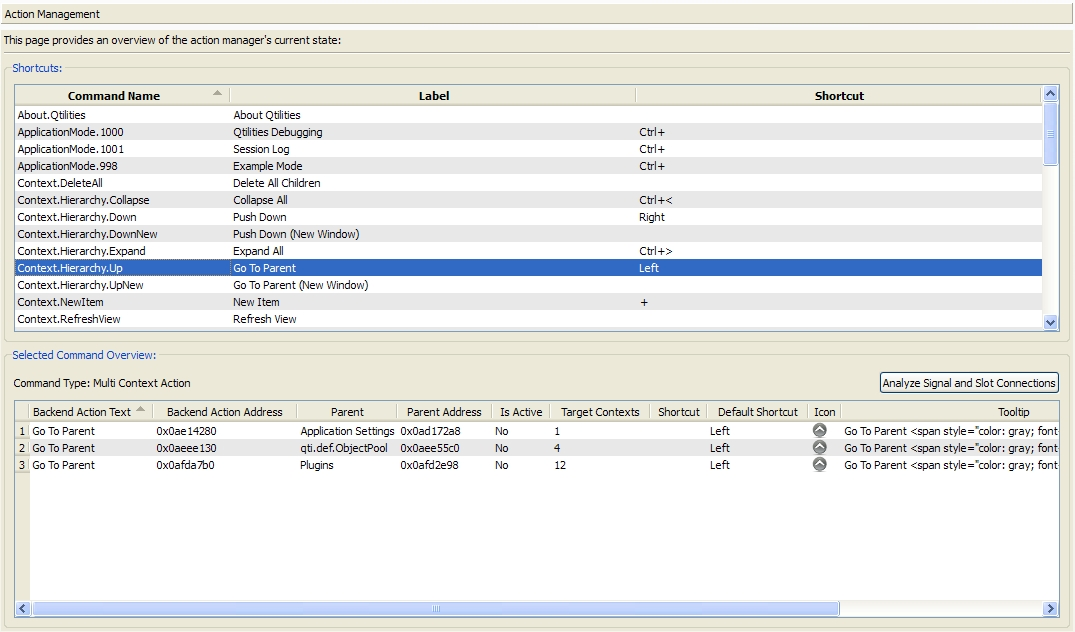
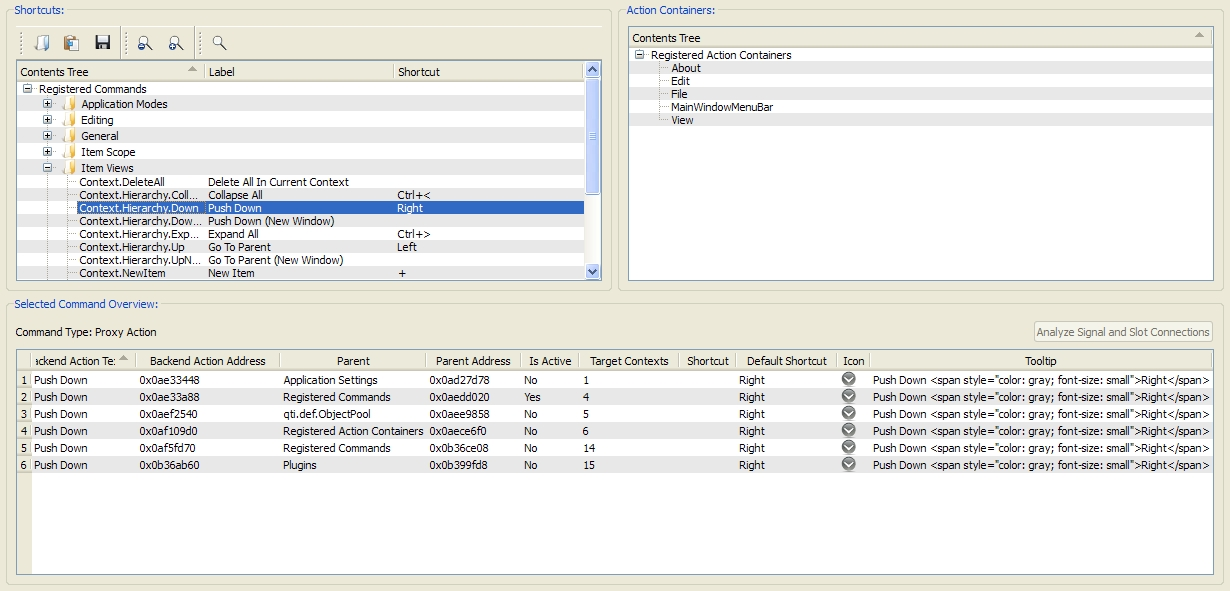
More updates to the action management article. It should be ready for the v0.3 release now.

Changed region(s): [[0.0, 0.0, 1.0, 1.0], [0.5833, 0.3046, 0.6447, 0.3655]]

diff --git a/doc/sources/Action_Management.html b/doc/sources/Action_Management.html
@@ -11,16 +11,26 @@
 <td style="width:80%; padding:0px 5px 0px 0px; vertical-align: text-top; text-align: left">
 <h1 style="margin:0px; padding:0px">Overview</h1>
 
-%Qtilities provides classes to allow management of actions and shortcuts in a Qt application. In small applications it is easy to do action management manually but as applications get bigger, its useful an it saves time to use a proper action management system. The action manager allows actions and shortcuts to be linked with contexts and to change their behavior depending on the active contexts. An command editor widget is provided to allow users to change their application wide shortcut settings, or to export or import previous sessions. Lastly, a clipboard manager is provided allowing management of the application clipboard.
+%Qtilities provides classes to allow management of actions and shortcuts in a Qt application. In small applications it is easy to do action management manually but as applications get bigger, its useful an it saves time to use a proper action management system. The action manager allows actions and shortcuts to be linked with contexts and to change their behavior depending on the active contexts. An command editor widget is provided to allow users to change their application wide shortcut settings, or to export and import previous sessions.
+
+The action provider concept is introduced where objects can provide actions to other objects or views and lastly, a clipboard manager is provided allowing management of the application clipboard.
 
 This article will explore these features and show how to include the functionality in your application.
 
 Table of contents:
 - \ref context_manager
 - \ref action_manager
-	- \ref menus_and_menubars
-	- \ref actions_and_shortcuts
-	.
+    - \ref menus_and_menubars
+    - \ref actions_and_shortcuts
+        - \ref actions_and_shortcuts_registering_actions
+        - \ref actions_and_shortcuts_proxy_actions
+        - \ref actions_and_shortcuts_action_place_holders
+        - \ref actions_and_shortcuts_defined_actions
+        - \ref actions_and_shortcuts_configurations
+        - \ref actions_and_shortcuts_debugging
+        .
+    .
+- \ref action_providers
 - \ref clipboard_manager
 
 </td>
@@ -103,7 +113,7 @@ The %Qtilities Debug Plugin provides an overview of the context manager's state 
 
 \image html debugging_state_contexts.jpg "Context Manager Overview"
 
-For more information see the Qtilities::CoreGui::Interfaces::IContextManager documentation.
+For more information see the Qtilities::Core::Interfaces::IContextManager documentation.
 
 \section action_manager The Action Manager 
 
@@ -141,9 +151,11 @@ menu_bar->addMenu(about_menu);
 
 Managed menus and menu bars implements the Qtilities::CoreGui::ActionContainer base class and access functions for these items will return an action container reference. Menus can be accessed using the Qtilities::CoreGui::ActionContainer::menu() function and menu bars through the Qtilities::CoreGui::ActionContainer::menuBar() function. For menus the menu bar function will return 0, and for menu bars the menu function will return 0.
 
-\subsection actions_and_shortcuts Actions and shortcuts
+\subsection actions_and_shortcuts Actions and Shortcuts
 
 Actions and shortcuts are created in the normal way and then registered in the action manager. To start of, lets consider a simple action which must be enabled if a specific context (called "My Context" in this example) is active, and disabled otherwise.
+
+\subsubsection actions_and_shortcuts_registering_actions Registering Actions and Shortcuts
 
 \code
 // Create a standard action:
@@ -156,19 +168,18 @@ QList<int> contexts;
 contexts.push_front(CONTEXT_MANAGER->contextID("My Context"));
 
 // Register the action in the action manager:
-command = ACTION_MANAGER->registerAction("MyActions.CollapseAll",actionCollapseAll,contexts);
-command->setCategory(QtilitiesCategory("My Action Category"));
+ACTION_MANAGER->registerAction("MyActions.CollapseAll",actionCollapseAll,contexts);
 \endcode
 
 All actions have a Command ID and an appropriate user visible string called an "User Text ID" associated with them. In the above example the Command ID is defined by \p MyActions.CollapseAll and the User Text ID is defined by the text() function on \p actionCollapseAll, thus "Collapse All". Actions and shortcuts implement the Qtilities::CoreGui::Command base class and will be called commands in the rest of this article. Actions can be accessed using the Qtilities::CoreGui::Command::action() function and shortcuts through the Qtilities::CoreGui::Command::shortcut() function. For shortcuts the action function will return 0, and for actions the shortcut function will return 0. Shortcuts are registered in the same way as actions as shown in the above example.
 
 As mentioned already, actions and shortcuts are linked to contexts, thus they react differently when different contexts are active. This allows customization in two ways:
 - A single action can be enabled or disabled depending on the context manager's active contexts. This approach was shown in the above example.
-- A specialized proxy action can be used which triggers one of several backend-actions depending on the context manager's active contexts.
+- A specialized proxy action can be used which triggers one of several back-end actions depending on the context manager's active contexts. In fact, all actions registered in the action manager are proxy actions. The first point above just uses a proxy action with a single back-end action.
 
-Lets look at the specialized proxy action approach in more detail.
+Lets look at the proxy action approach in more detail.
 
-\subsubsection actions_and_shortcuts_proxy_action Proxy Actions
+\subsubsection actions_and_shortcuts_proxy_actions Proxy Actions
 
 The Qtilities::CoreGui::ProxyAction class represents an proxy action which is triggered when the command's shortcut is triggered, and any number of back-end actions which each represent a different context. When context changes happen in the application, the proxy action will be updated to route shortcut triggers to the correct back-end action.
 
@@ -177,10 +188,10 @@ Proxy actions are easily created, for example:
 \code
 // Create a standard action:
 QAction* proxyAction = new QAction(tr("Proxy Action"),this);
-QAction* backendAction1 = new QAction(tr("Backend 1"),this);
-QAction* backendAction2 = new QAction(tr("Backend 2"),this);
+QAction* backendAction1 = new QAction(tr("Back-end 1"),this);
+QAction* backendAction2 = new QAction(tr("Back-end 2"),this);
 
-// Get the contexts for the backend actions ready:
+// Get the contexts for the back-end actions ready:
 QList<int> contextAction1;
 contextAction1.push_front(CONTEXT_MANAGER->contextID("Context 1"));
 QList<int> contextAction2;
@@ -189,12 +200,14 @@ contextAction2.push_front(CONTEXT_MANAGER->contextID("Context 2"));
 // Register the proxy action. Note that we do not assign a context for the proxy action:
 ACTION_MANAGER->registerAction("MyActions.MyProxyAction",proxyAction);
 
-// Now register the backend actions:
+// Now register the back-end actions:
 ACTION_MANAGER->registerAction("MyActions.MyProxyAction",backendAction1,contextAction1);
 ACTION_MANAGER->registerAction("MyActions.MyProxyAction",backendAction2,contextAction2);
 \endcode
 
 In the above example \p backedAction1 will trigger when "Context 1" is active, and \p backendAction2 will trigger when "Context 2" is active. Note that no back-end actions will be triggered if neither of these contexts are active.
+
+The first example presented where we regster a single action with a context (called "Collapse All" in that example), will create a proxy action and register the given action as a back-end action in it. Thus we can add more back-end actions for the "Collapse All" action by registering more actions for the same Command ID.
 
 \subsubsection actions_and_shortcuts_action_place_holders Action Placeholders
 
@@ -203,19 +216,19 @@ In some scenarions, especially pluginable applications, it is desirable to add a
 Place holders are easily registered like this:
 
 \code
-ACTION_MANAGER->registerActionPlaceHolder("MyActions.PlaceHolder","Example Placeholder",QKeySequence());
+ACTION_MANAGER->registerActionPlaceHolder("MyActions.PlaceHolder","Example Placeholder");
 
 // Plugins can now add back-end actions to the above proxy action like this:
-QAction* backendAction1 = new QAction(tr("Backend 1"),this);
-QAction* backendAction2 = new QAction(tr("Backend 2"),this);
+QAction* backendAction1 = new QAction(tr("Back-end 1"),this);
+QAction* backendAction2 = new QAction(tr("Back-end 2"),this);
 
-// Get the contexts for the backend actions ready:
+// Get the contexts for the back-end actions ready:
 QList<int> contextAction1;
 contextAction1.push_front(CONTEXT_MANAGER->contextID("Context 1"));
 QList<int> contextAction2;
 contextAction2.push_front(CONTEXT_MANAGER->contextID("Context 2"));
 
-// Now register the backend actions:
+// Now register the back-end actions:
 ACTION_MANAGER->registerAction("MyActions.PlaceHolder",backendAction1,contextAction1);
 ACTION_MANAGER->registerAction("MyActions.PlaceHolder",backendAction2,contextAction2);
 \endcode
@@ -223,15 +236,20 @@ ACTION_MANAGER->registerAction("MyActions.PlaceHolder",backendAction2,contextAct
 It is also possible to create an action place holder which is not a proxy action. This is very usefull in cases where you don't want to store a reference to an action yourself. For example if you want to add an \p Exit action to your \p File menu, you can do it directly in your \p main() function. The trick here is to specify a context for your place holder so that it will be enabled for that context:
 
 \code
-command = ACTION_MANAGER->registerActionPlaceHolder("MyActions.Exit","Exit",QKeySequence(QKeySequence::Close),std_context);
+QList<int> contexts;
+contexts.push_front(CONTEXT_MANAGER->contextID("Context 1"));
+
+command = ACTION_MANAGER->registerActionPlaceHolder("MyActions.Exit","Exit",QKeySequence(QKeySequence::Close),contexts);
 QObject::connect(command->action(),SIGNAL(triggered()),QCoreApplication::instance(),SLOT(quit()));
 \endcode
+
+Behind the scenes this will create a default back-end action for the specified context.
 
 For more details on registering actions, see the Qtilities::CoreGui::Interfaces::IActionManager documentation.
 
 \subsubsection actions_and_shortcuts_defined_actions Defined Actions
 
-The Qtilities::CoreGui::Actions namespace contains a set of ready to use actions and action containers. These constants define the Command IDs for common menu items and by using these constants. Using the defined set of actions makes it is easy to place new actions before or after them when adding actions to menus (See Qtilities::CoreGui::ActionContainer::addAction() and Qtilities::CoreGui::ActionContainer::addSeperator()).
+The Qtilities::CoreGui::Actions namespace contains a set of ready to use action and action container Command IDs. Using the defined set of Command IDs makes it is easy to place new actions before or after them when adding actions to your menus. For more information see Qtilities::CoreGui::ActionContainer::addAction() and Qtilities::CoreGui::ActionContainer::addSeperator().
 
 \subsubsection actions_and_shortcuts_configurations Shortcut Configurations
 
@@ -246,15 +264,46 @@ OBJECT_MANAGER->registerObject(ACTION_MANAGER->commandEditor());
 
 This widgets lists all the registered commands in the action manager where the "Command Name" column refers to the commands' string id and the "Label" column refers to the user text id of actions.
 
-The figure below shows an example of the command editor widget, taken from the \p ObjectManagementExample.
+The figure below shows an example of the command editor, taken from the \p ObjectManagementExample.
 
 \image html command_editor.jpg "Command Editor"
+
+The command editor shows actions in a categorized tree view. A category is assigned to a command like this:
+
+\code
+Command* command = ACTION_MANAGER->registerAction("MyActions.CollapseAll",actionCollapseAll,contexts);
+command->setCategory(QtilitiesCategory("My Action Category"));
+\endcode
+
+The command editor also allows users to edit shortcuts for the displayed commands and highlights ambigious shortcuts (used more than once) in red.
 
 \subsubsection actions_and_shortcuts_debugging Debugging Actions
 
 The %Qtilities Debug Plugin provides an overview of the action manager's state at any time and allows you view detailed information about registered commands.
 
-\image html debugging_state_actions.jpg "Action Management"
+\image html debugging_state_actions.jpg "Action Manager Overview"
+
+\section action_providers Action Providers
+
+In the development done using %Qtilities the problem was often faced where an object (which is not a QWidget) needed to provide some actions to another object. To solve the problem the concept of action providers was introducted. Any object can become an action provider and other objects (a toolbar for example) can query the object for actions that it provides, or it can add actions to the object, in the same way that you can add actions to QWidget.
+
+Action providers allow actions to be grouped into categories and allows you to do specialized queries on the actions provided by an object, for example you can get only a list of actions which are enabled. The Qtilities::CoreGui::Interfaces::IActionProvider interface defines the interface that action providers use and the Qtilities::CoreGui::ActionProvider class provides a default implementation of this interface.
+
+Many classes in %Qtilities are action providers and they provide actions through their \p actionProvider() function. An example is Qtilities::CoreGui::ObserverWidget, which provides all the actions that is created and allows you to get for example all the enabled actions for the current observer context. If you use an \p ObserverWidget that displays its actions in an action toolbar, you can easily add new actions to the toolbar where toolbars are created for each action category. For example:
+
+\code
+ObserverWidget widget;
+widget.actionProvider()->addAction(my_action,QtilitiesCategory("My Action Category"));
+
+// We can get a list of actions provided by any object like this:
+QList<QAction*> actions = widget.actions();
+
+// Only enabled actions:
+QList<QAction*> enabled_actions = widget.actions(IActionProvider::FilterDisabled);
+
+// Only actions for a specific category:
+QList<QAction*> actions_per_category = widget.actions(IActionProvider::NoFilter,QtilitiesCategory("My Action Category"));
+\endcode
 
 \section clipboard_manager The Clipboard Manager
 
